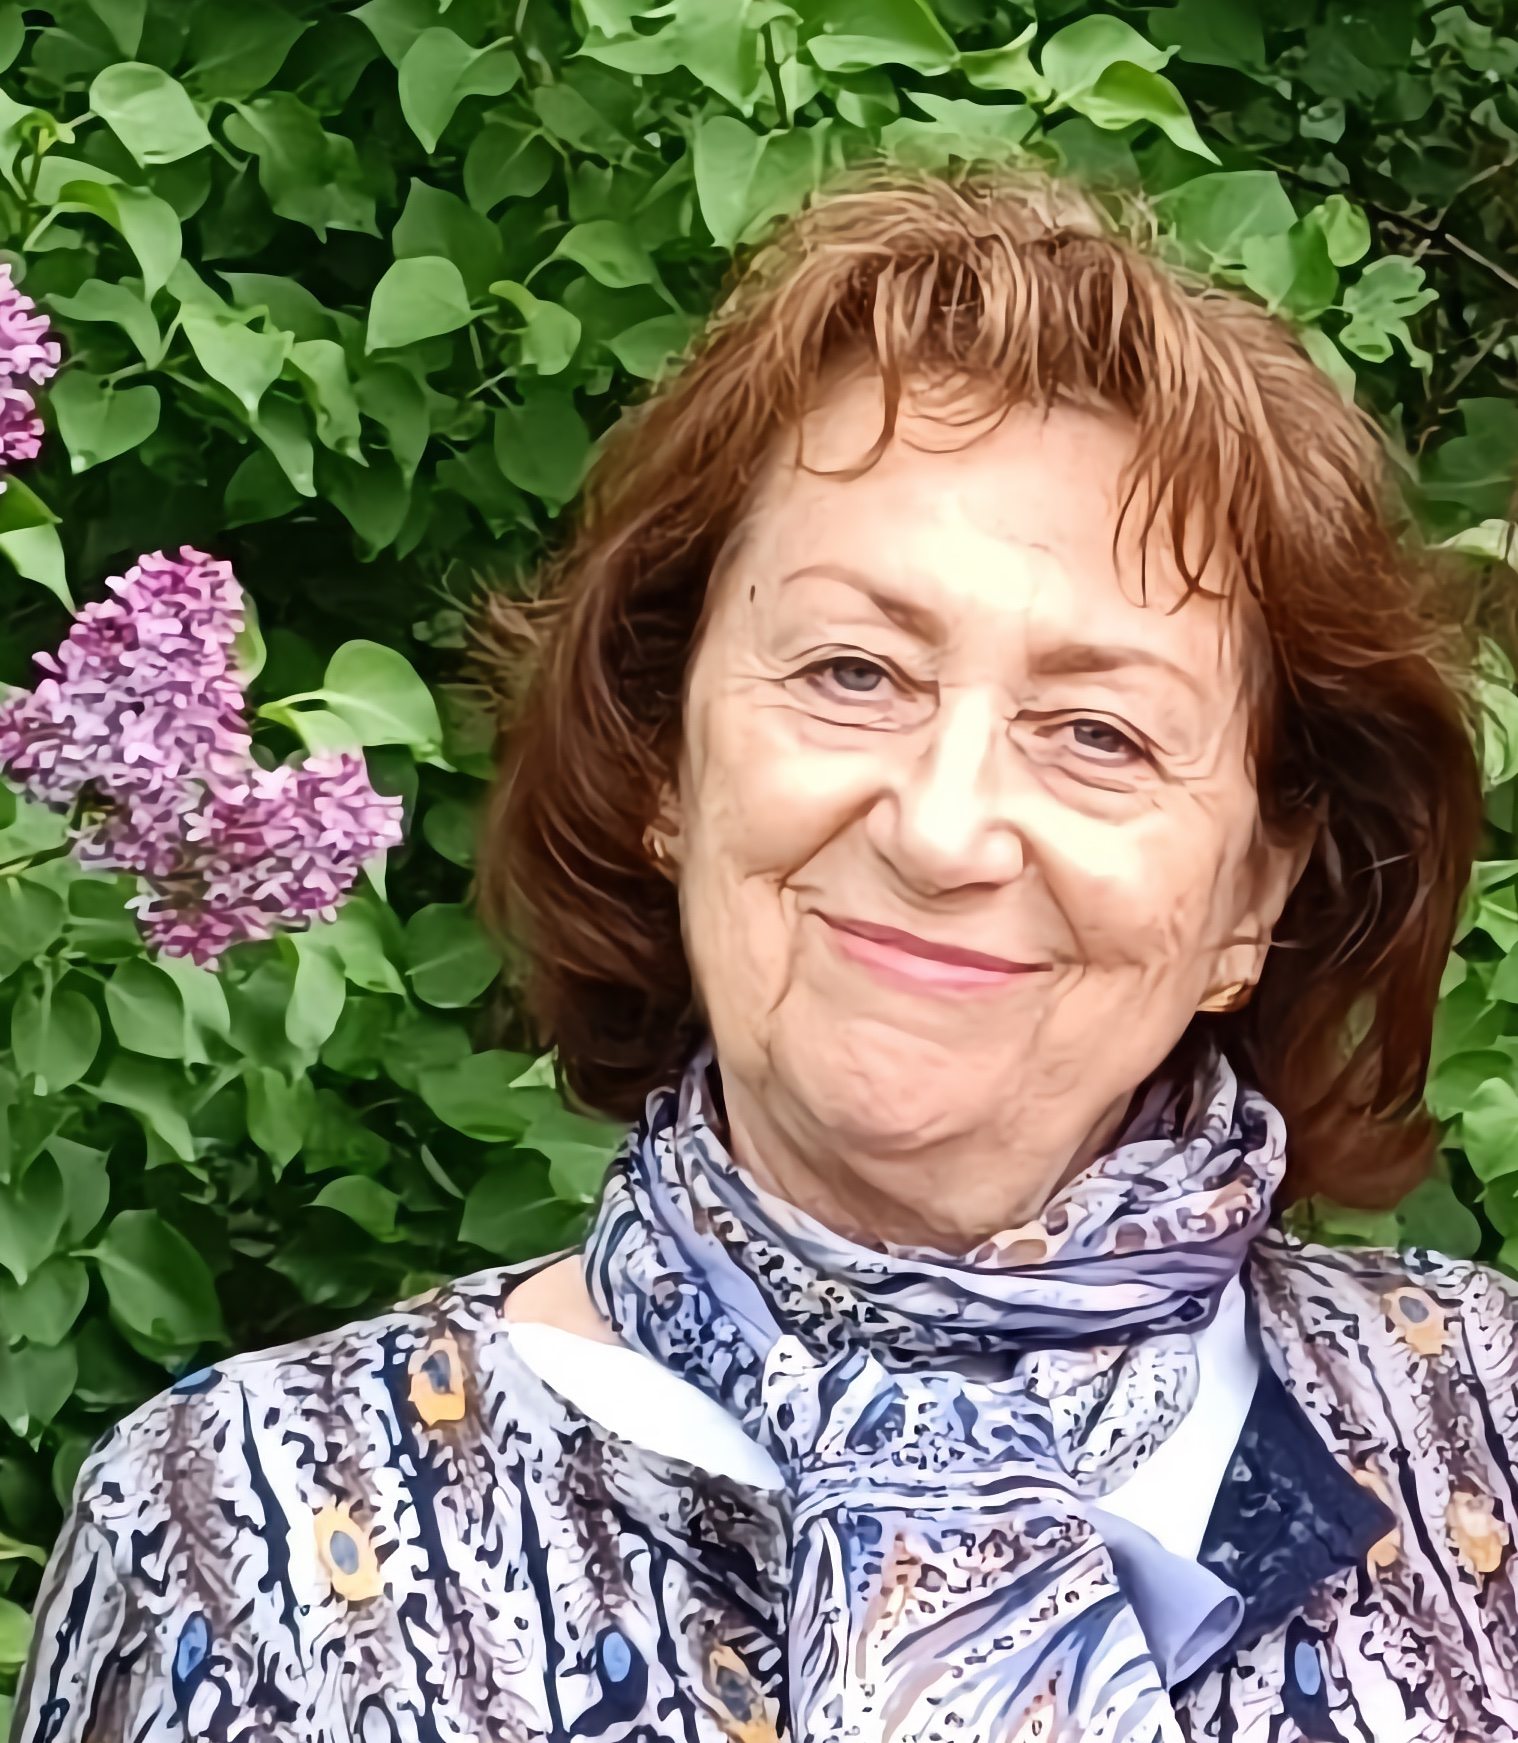
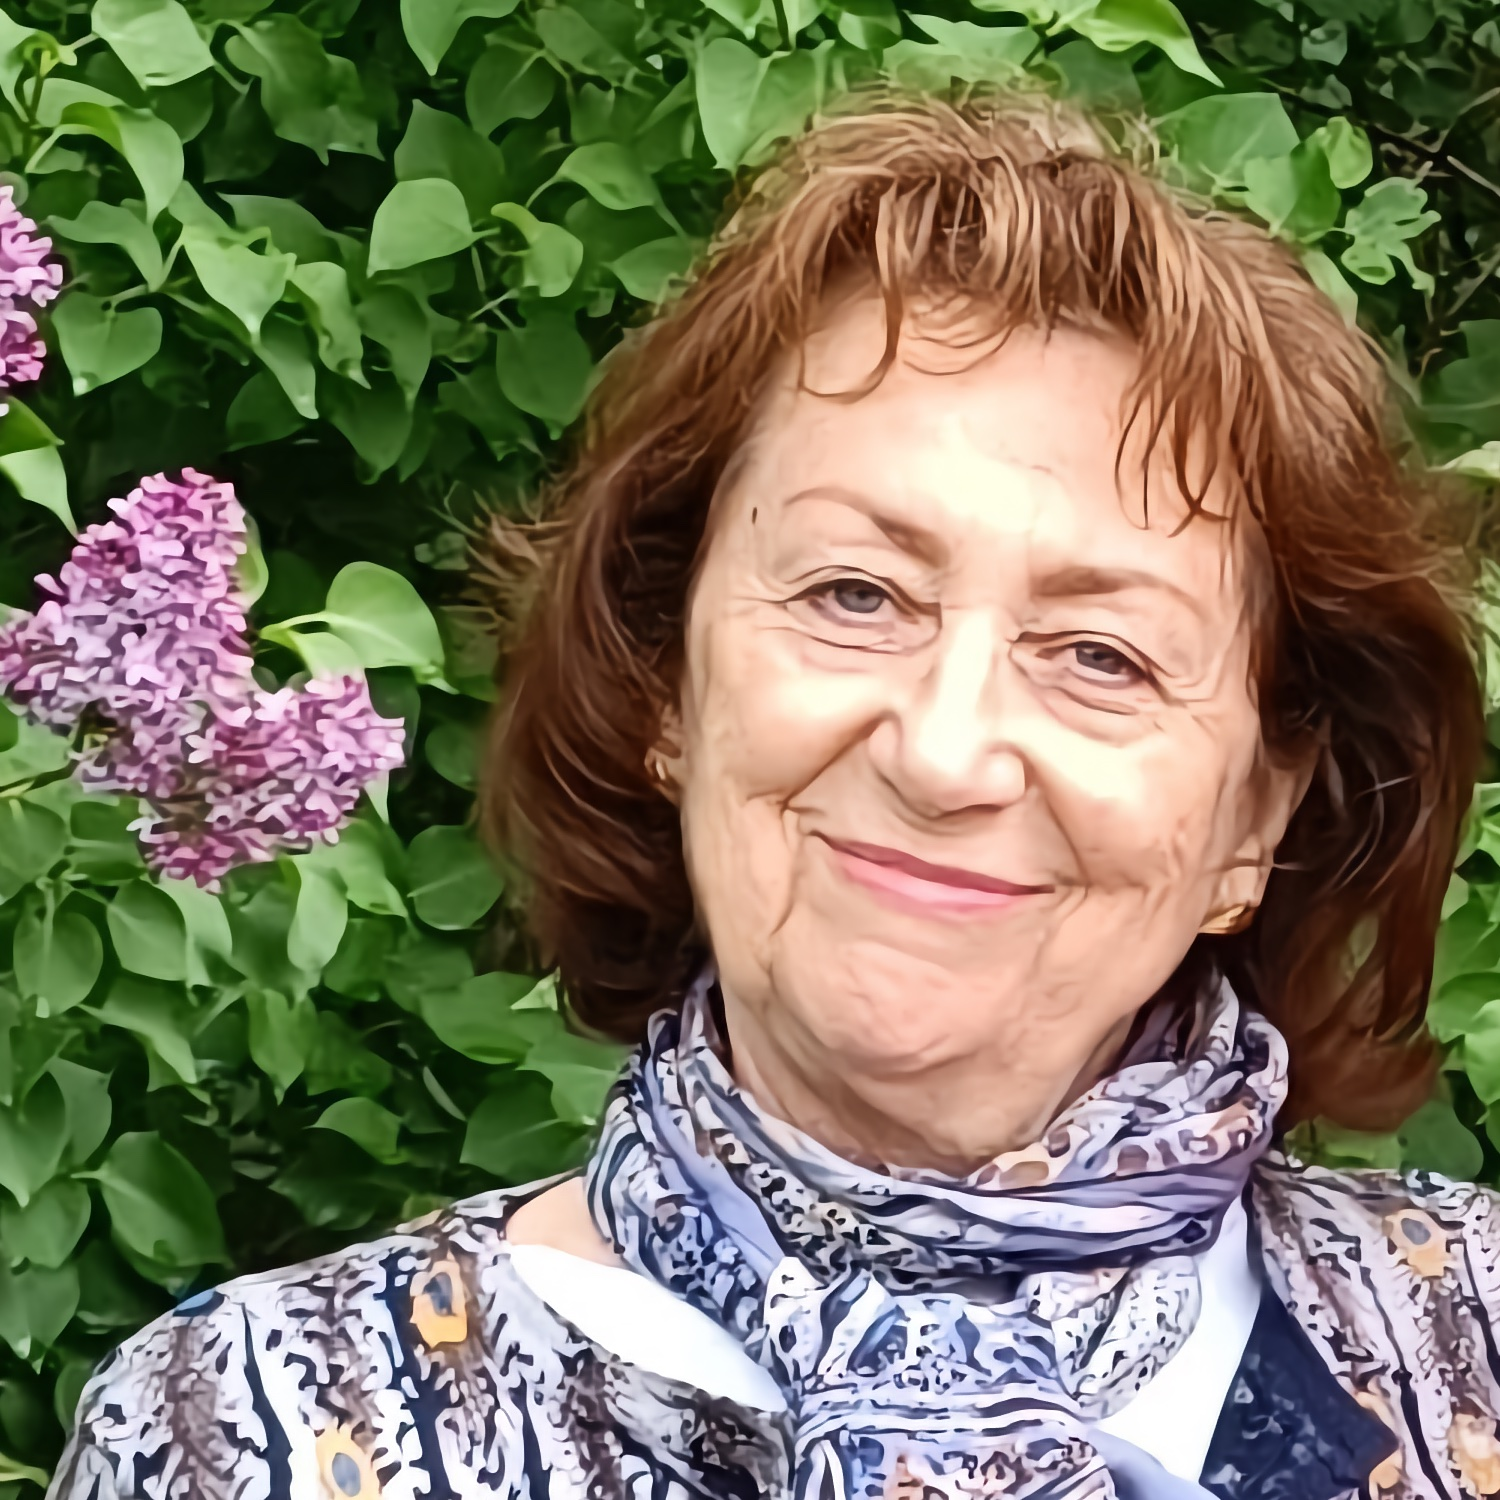
IMPR: preview for whatsapp

diff --git a/index.html b/index.html
@@ -667,12 +667,23 @@ blockquote {
 }
 	
 </style>
-<meta property="og:type" content="profile">
+<meta property="og:type" content="website" />
 <meta property="og:title" content="Репетитор Державина Татьяна">
 <meta property="og:site_name" content="репетитор-державина.рф">
-<meta property="og:url" content="http://репетитор-державина.рф">
+<meta property="og:url" content="https://репетитор-державина.рф">
 <meta property="og:description" content="Профессиональный репетитор английского языка с обширным опытом работы с учащимися разных возрастов и уровней владения языком. Фокус на развитии навыков свободной устной речи. Москва, 2000-2500 р. за 60 мин.">
+
+<!-- MS Tile - for Microsoft apps-->
+<meta name="msapplication-TileImage" content="http://репетитор-державина.рф/images/photo_small.jpg">
+
+<!-- Size of image. Any size up to 300. Anything above 300px will not work in WhatsApp -->
+<meta property="og:image:width" content="300">
+<meta property="og:image:height" content="300">
+<meta property="og:image:type" content="image/jpeg">
 <meta property="og:image" content="http://репетитор-державина.рф/images/photo_small.jpg">
+<meta property="og:image:secure_url" content="https://репетитор-державина.рф/images/photo_small.jpg">
+
+
 <!-- Yandex.Metrika counter -->
 <script type="text/javascript" >
 	(function(m,e,t,r,i,k,a){m[i]=m[i]||function(){(m[i].a=m[i].a||[]).push(arguments)};
